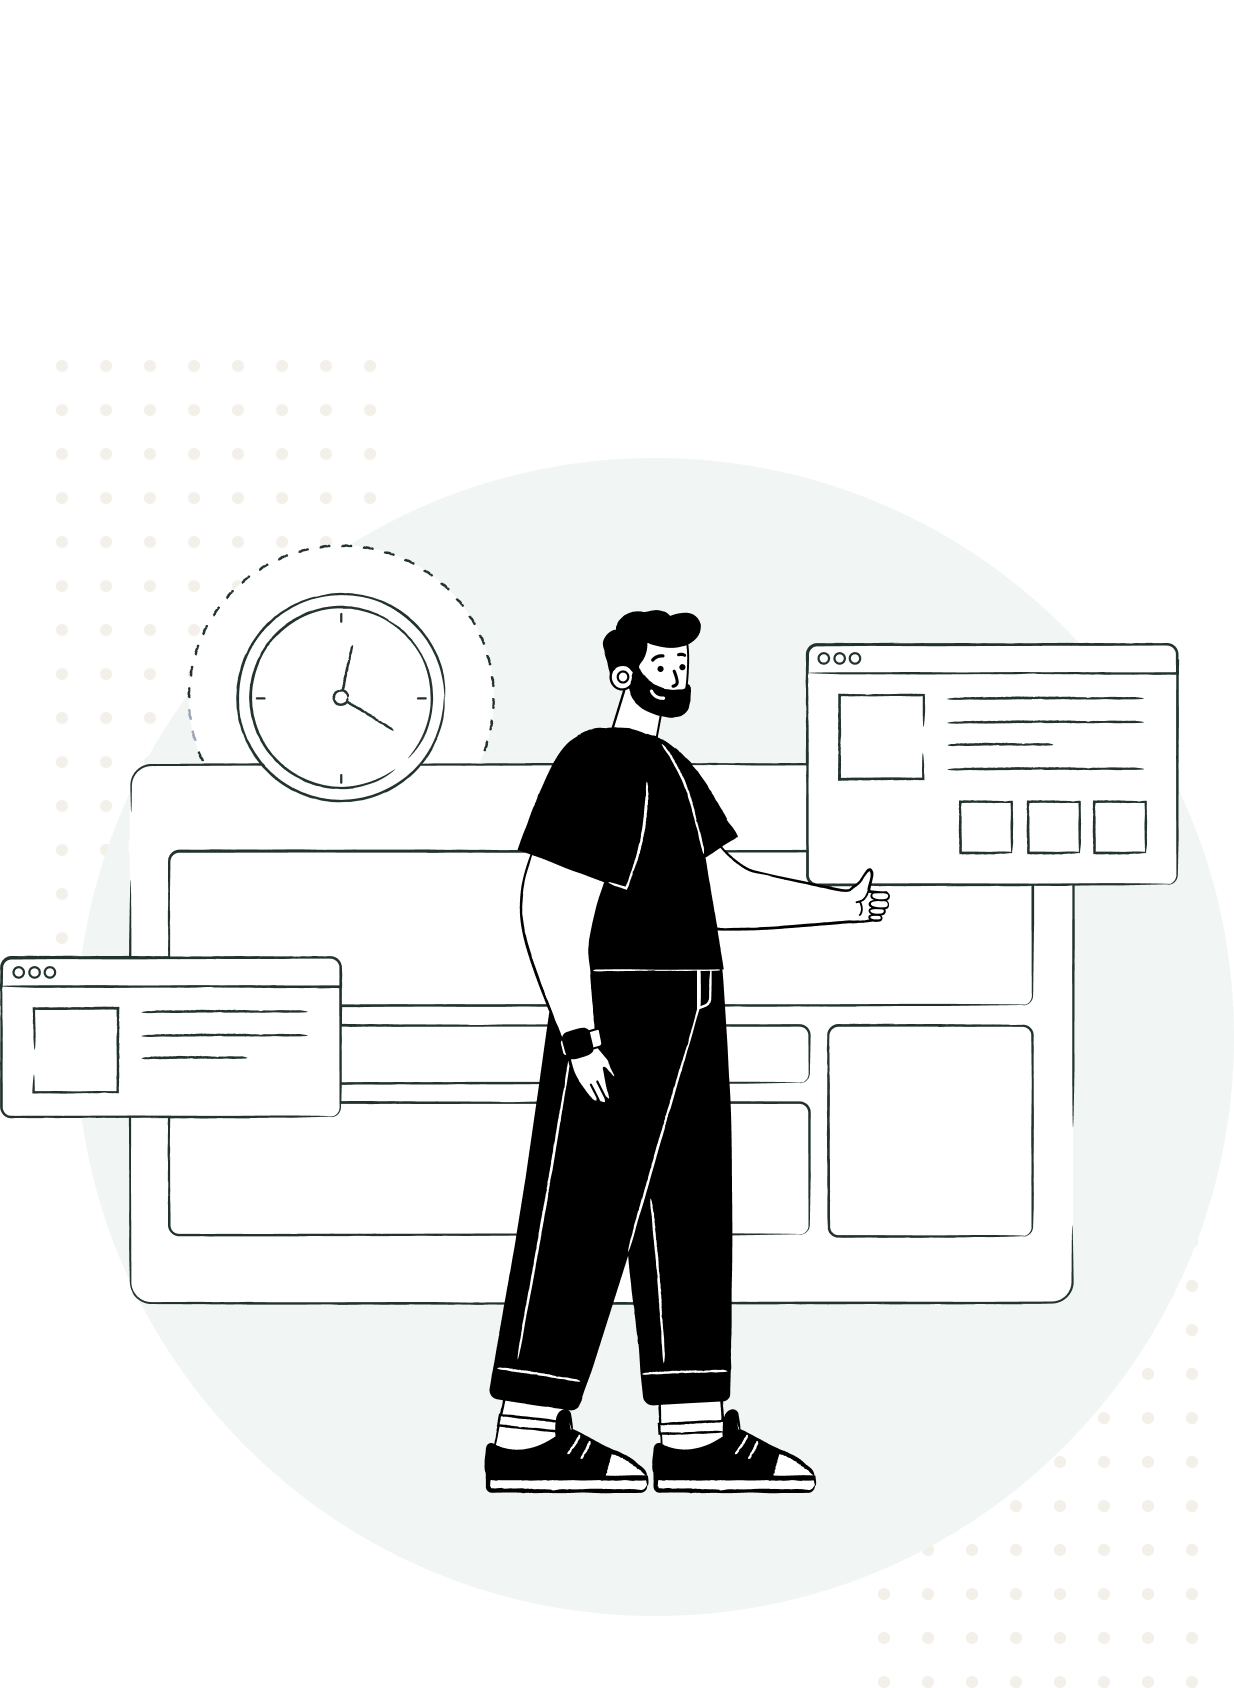
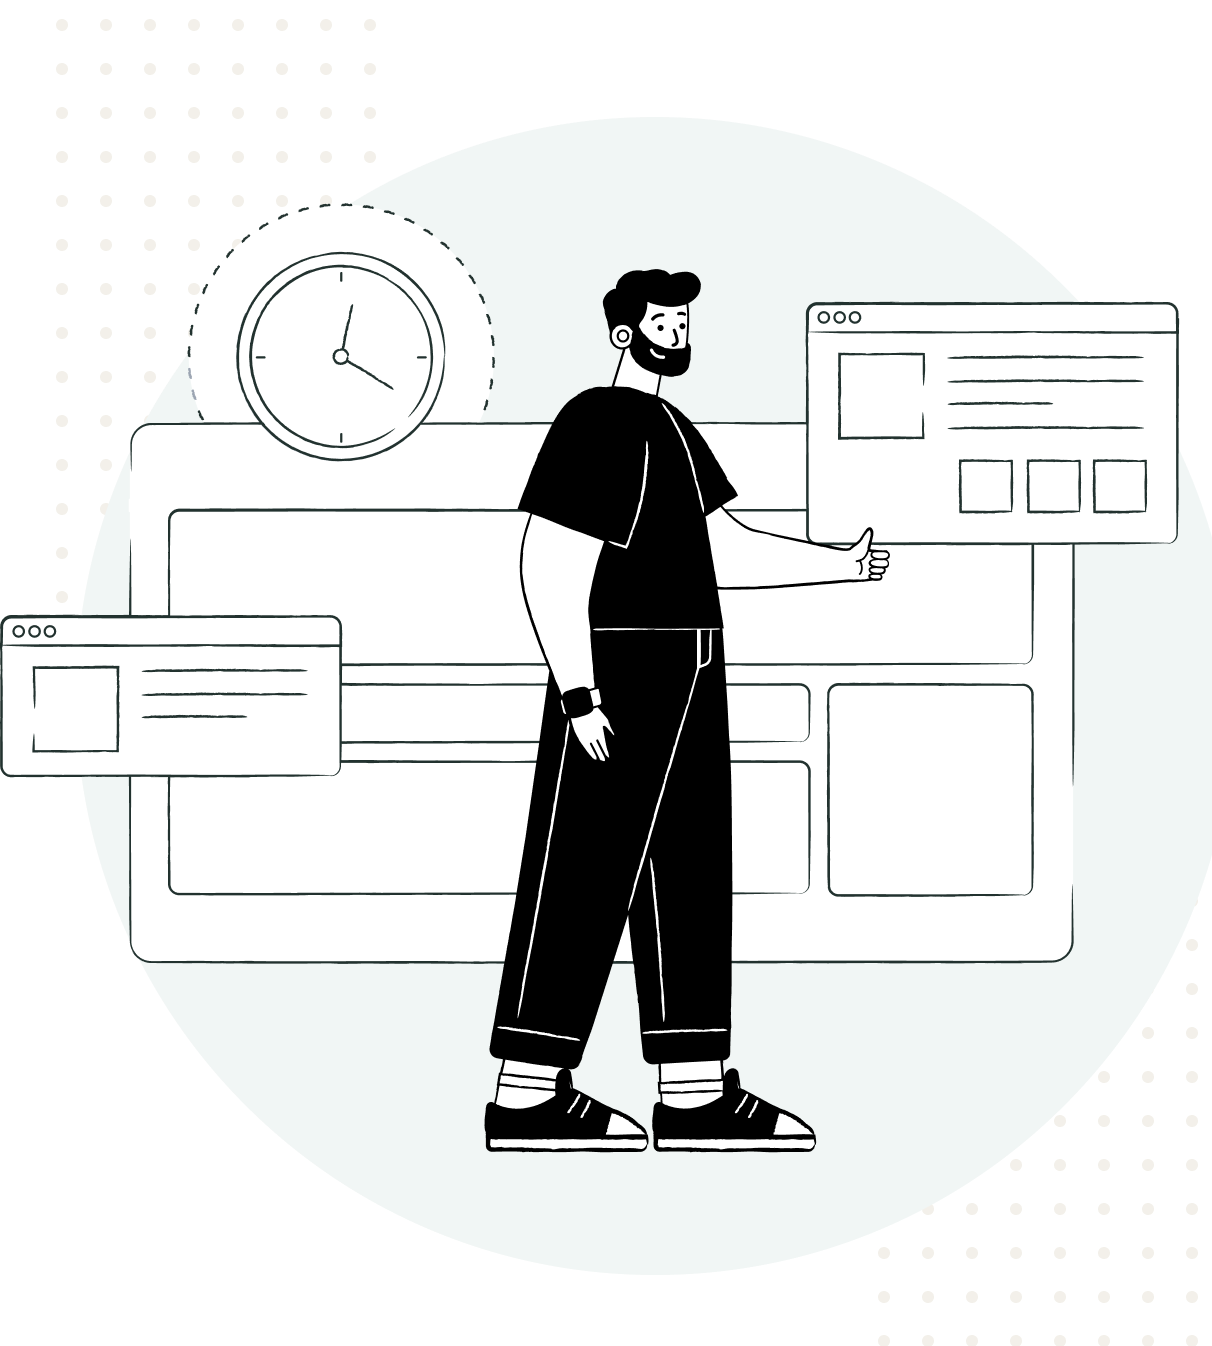
added

diff --git a/components/Layout.tsx b/components/Layout.tsx
@@ -75,17 +75,17 @@ const Layout = ({ children, title = "This is the default title" }: Props) => {
           >
             <div className="hidden md:block">
               <ul className="flex items-center">
-                <li className="pl-10 font-bold text-xl hover:opacity-50">
+                <li className="pl-10 font-bold text-xl hover:opacity-50 cursor-pointer transition-all duration-200">
                   Features
                 </li>
-                <li className="pl-10 font-bold text-xl hover:opacity-50">
+                <li className="pl-10 font-bold text-xl hover:opacity-50 cursor-pointer transition-all duration-200">
                   Pricing
                 </li>
-                <li className="pl-10 font-bold text-xl hover:opacity-50">
+                <li className="pl-10 font-bold text-xl hover:opacity-50 cursor-pointer transition-all duration-200">
                   Why Gravity
                 </li>
                 <li
-                  className="pl-10 font-bold text-xl hover:opacity-50"
+                  className="pl-10 font-bold text-xl hover:opacity-50 cursor-pointer transition-all duration-200"
                   style={{ color: "#71A89E" }}
                 >
                   Sign In

diff --git a/pages/index.tsx b/pages/index.tsx
@@ -66,7 +66,6 @@ const IndexPage = () => (
             width="100%"
             height="100%"
             alt=""
-            className="-mt-28"
           />
         </div>
       </motion.div>
